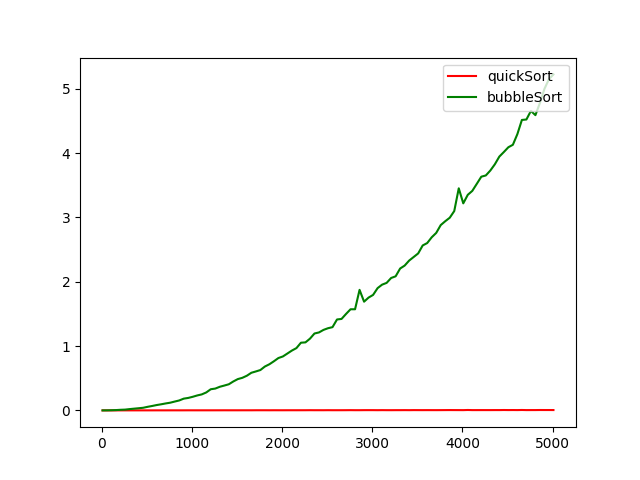
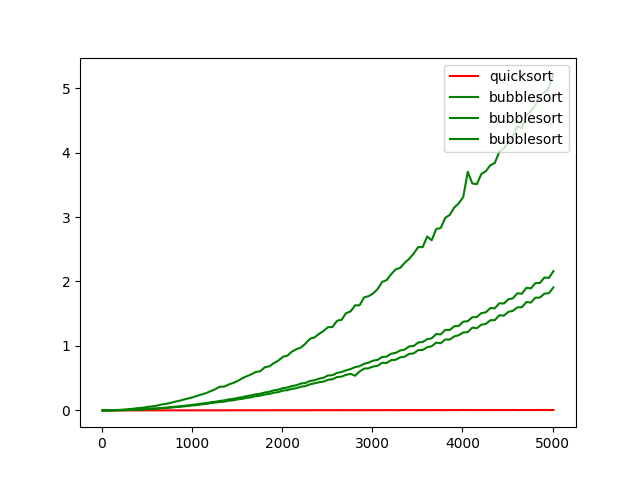
sort update

diff --git a/Sort/sortSummary.py b/Sort/sortSummary.py
@@ -42,8 +42,10 @@ if __name__ == "__main__":
         y4.append(end-start)
     
     plt.figure()
-    plt.plot(x1, y1, color = "r", label = "quickSort")
-    plt.plot(x2, y2, color = "g", label = "bubbleSort")
+    plt.plot(x1, y1, color = "r", label = "quicksort")
+    plt.plot(x2, y2, color = "g", label = "bubblesort")
+    plt.plot(x3, y3, color = "g", label = "bubblesort")
+    plt.plot(x4, y4, color = "g", label = "bubblesort")
     plt.legend(loc = "upper right")
 
     plt.savefig("./time.png")

diff --git a/README.md b/README.md
@@ -31,7 +31,7 @@
 
 将常见的几种排序算法进行时间空间复杂度的比较：
 
-quickSort, bubbleSort，...
+quickSort, bubbleSort，insertSort, selectSort
 
 ### Top-k
 
